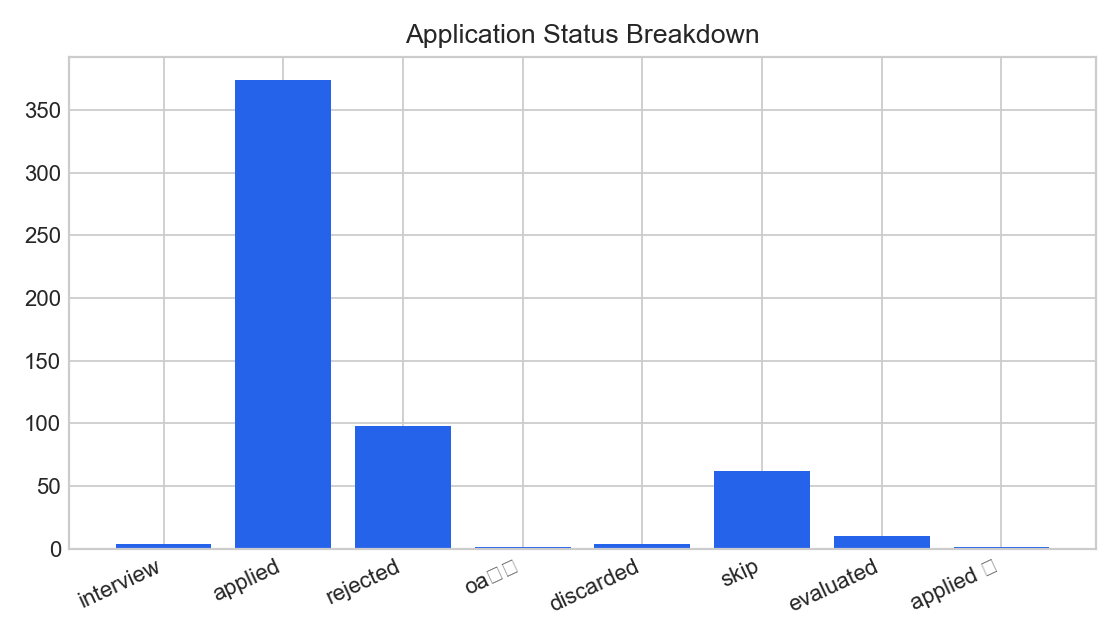
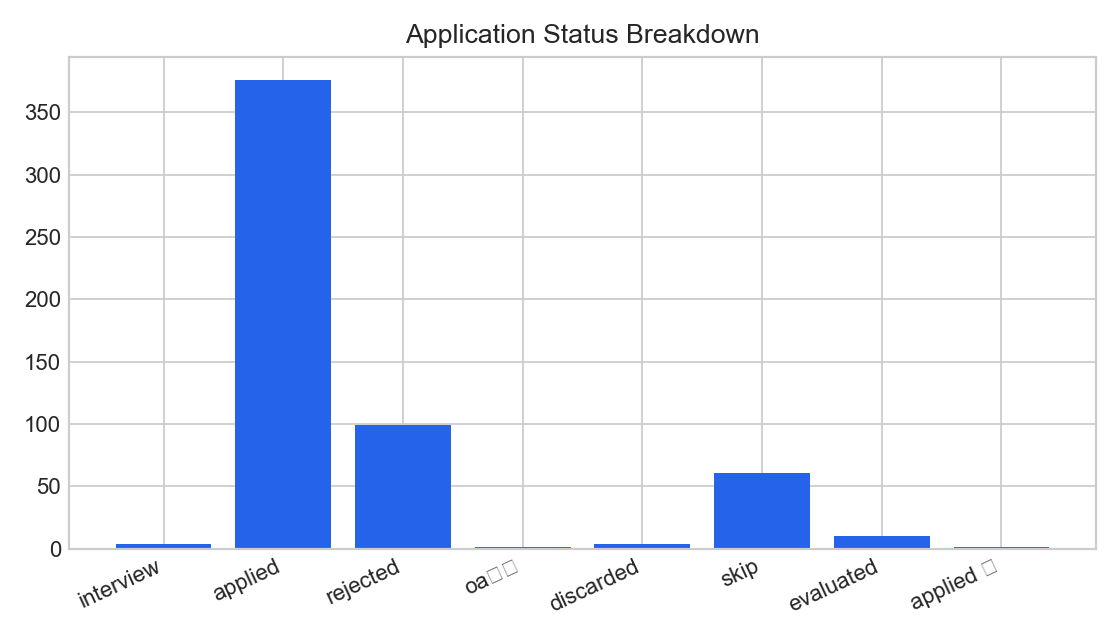
Refresh analytics for 707 merged roles after applications.md backfill

diff --git a/data/daily_summary.md b/data/daily_summary.md
@@ -1,6 +1,6 @@
 # Daily Job Search Summary
 
-_Last refreshed: 2026-07-24T23:56:21-07:00_
+_Last refreshed: 2026-07-25T00:09:54-07:00_
 
 ## Positioning
 
@@ -10,24 +10,24 @@ _Last refreshed: 2026-07-24T23:56:21-07:00_
 
 ## Snapshot
 
-- Tracked roles: 705
-- Active roles: 388
+- Tracked roles: 707
+- Active roles: 390
 - Response rate: 0.8%
 - LinkedIn outreach sent: 28
 - Pending pipeline items: 155
 - Recommended pipeline items: 36
-- Average evaluated score: 3.33
+- Average evaluated score: 3.44
 
 ## Status Breakdown
 
-- applied: 374
+- applied: 376
 - applied ✅: 1
 - discarded: 4
 - evaluated: 10
 - interview: 4
 - oa完成: 1
-- rejected: 98
-- skip: 62
+- rejected: 99
+- skip: 61
 
 ## Recent Activity
 
@@ -62,13 +62,13 @@ _Last refreshed: 2026-07-24T23:56:21-07:00_
 
 ## Needs Attention
 
-- Microsoft | Applied Scientist: Microsoft AI Development Acceleration Program | 134 days with no response
-- Nvidia | Deep Learning Architect, LLM Inference - New College Grad 2026 | 134 days with no response
-- Google | Software Engineer II, Early Career | 130 days with no response
-- Apple | AIML - Machine Learning Research | 123 days with no response
-- Amazon | Data Engineer II | 121 days with no response
-- Amazon | Software Development Engineer – Amazon Leo (US) | 121 days with no response
-- Amazon | Software Development Engineer - 2026 (US) | 121 days with no response
-- Amazon | 软件开发工程师, (New graduate or Entry-level Engineer, 0-2 Years) | 121 days with no response
-- Esri | Product Test Engineer II - Feature Server | 121 days with no response
-- Esri | Product Engineer II - ArcGIS Enterprise Sharing API | 121 days with no response
+- Microsoft | Applied Scientist: Microsoft AI Development Acceleration Program | 135 days with no response
+- Nvidia | Deep Learning Architect, LLM Inference - New College Grad 2026 | 135 days with no response
+- Google | Software Engineer II, Early Career | 131 days with no response
+- Apple | AIML - Machine Learning Research | 124 days with no response
+- Amazon | Data Engineer II | 122 days with no response
+- Amazon | Software Development Engineer – Amazon Leo (US) | 122 days with no response
+- Amazon | Software Development Engineer - 2026 (US) | 122 days with no response
+- Amazon | 软件开发工程师, (New graduate or Entry-level Engineer, 0-2 Years) | 122 days with no response
+- Esri | Product Test Engineer II - Feature Server | 122 days with no response
+- Esri | Product Engineer II - ArcGIS Enterprise Sharing API | 122 days with no response
